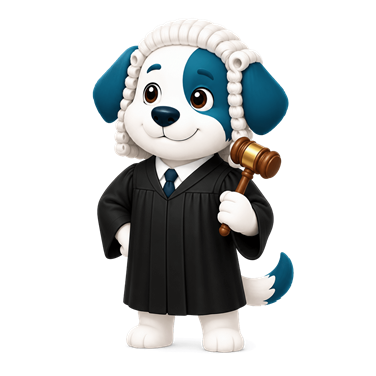
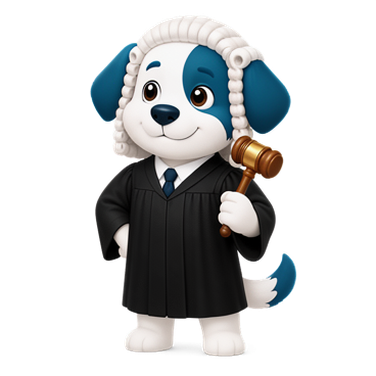
fix: use transparent BFG illustration

diff --git a/src/lib/release-surface.test.ts b/src/lib/release-surface.test.ts
@@ -93,7 +93,7 @@ describe("approved release surface", () => {
     );
     expect(pageSource).toMatch(/src="\/fred-bfg-search\.png"[\s\S]*?unoptimized/);
     expect(createHash("sha256").update(readFileSync(bfgIllustrationPath)).digest("hex")).toBe(
[2 lines of base64/hex data omitted]
     );
   });
 